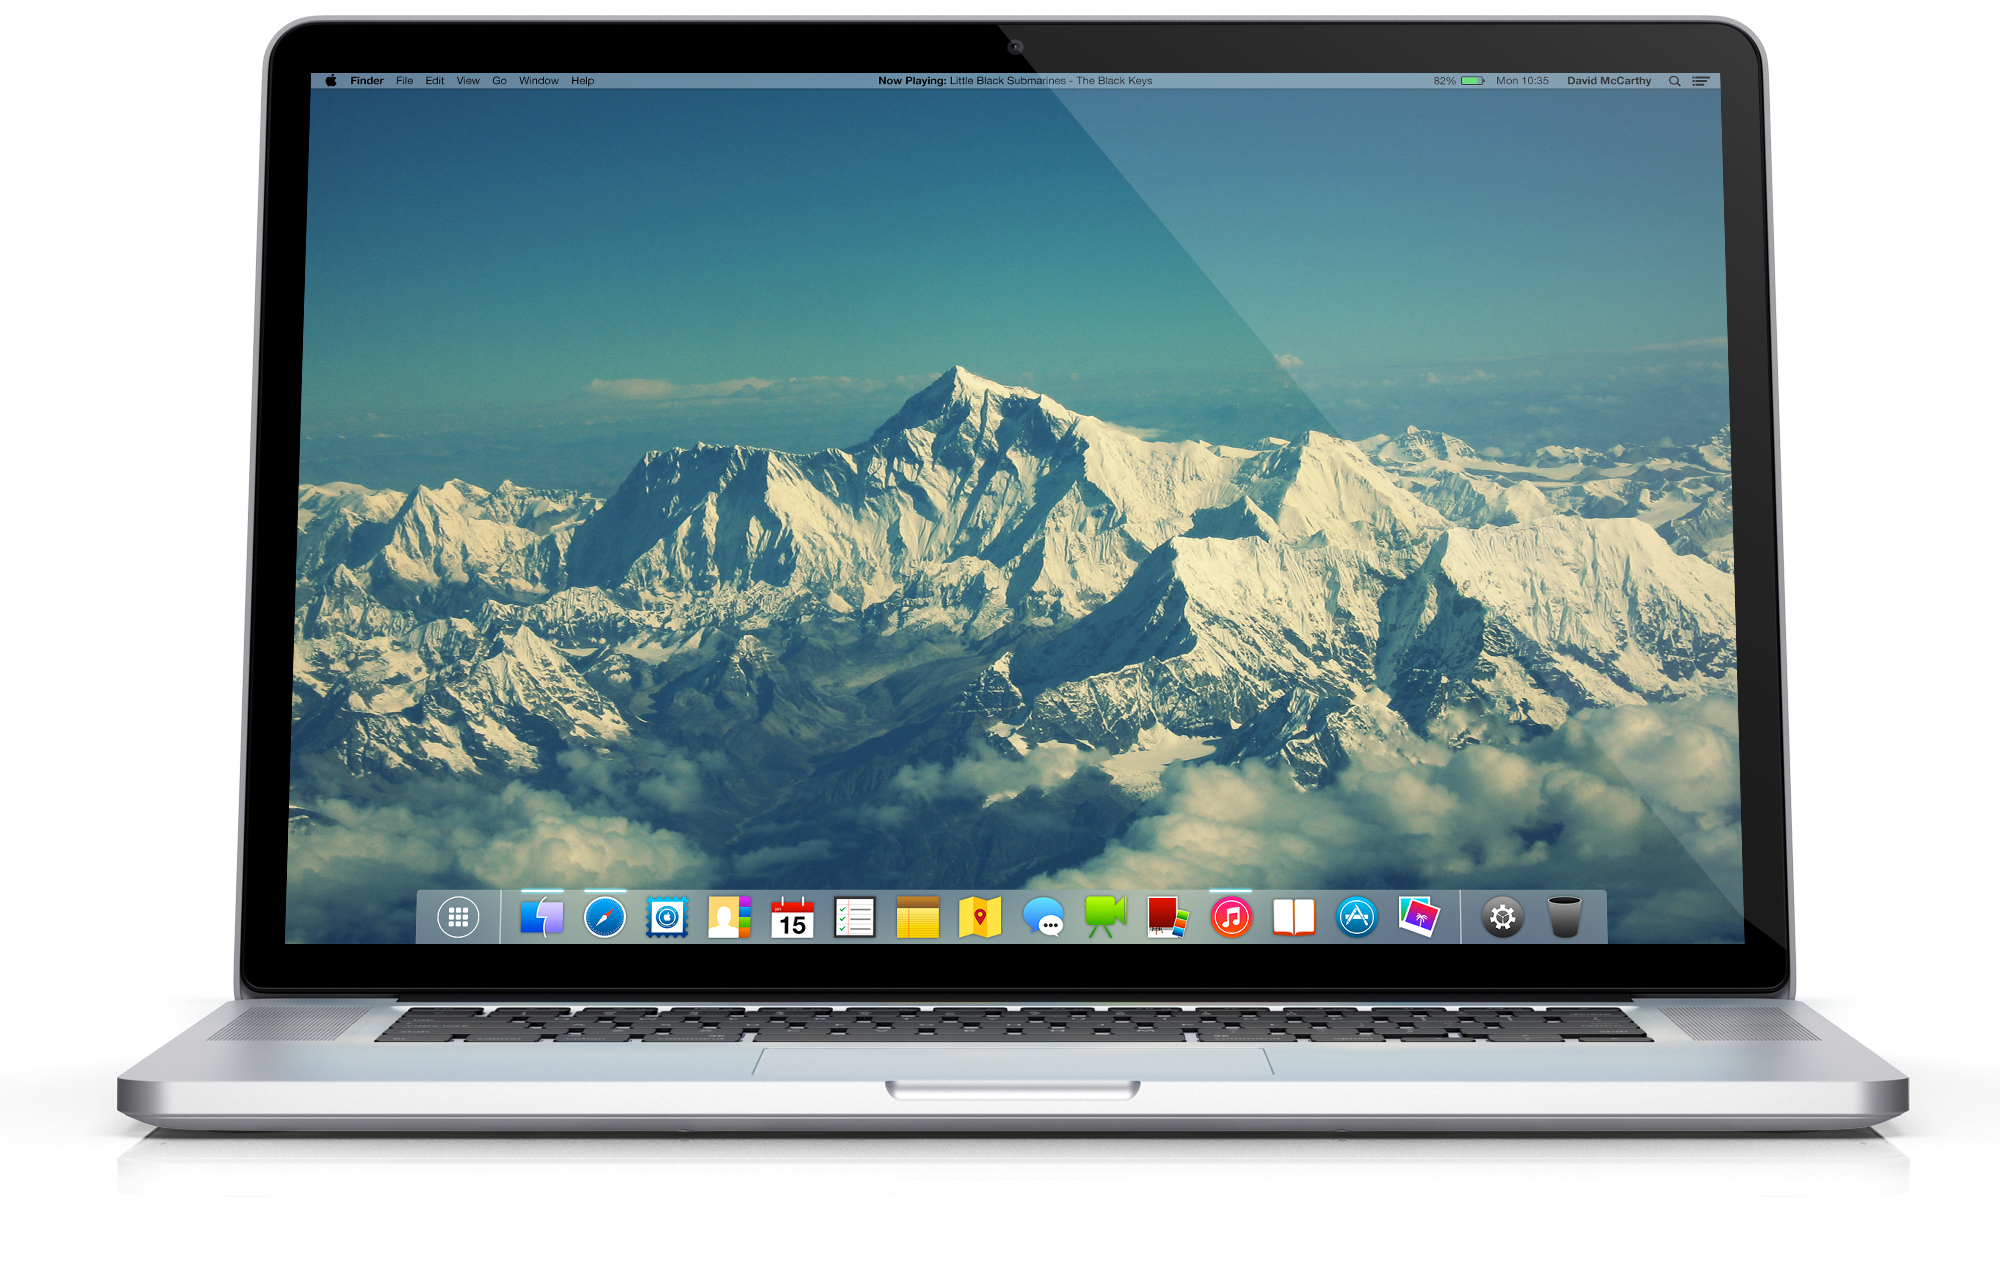
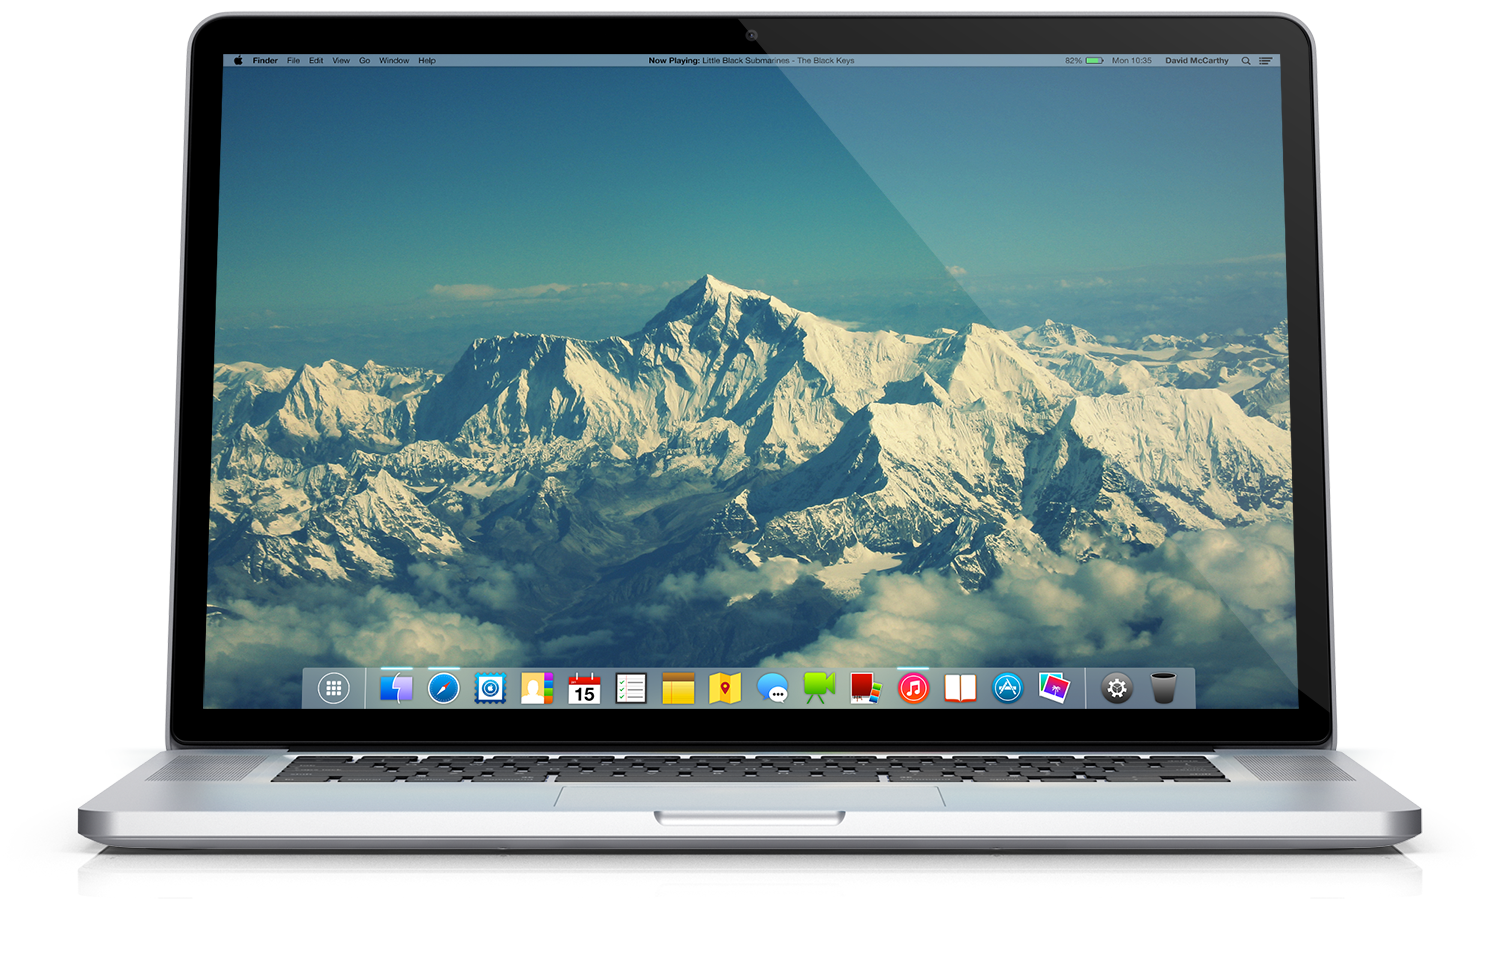
more content

diff --git a/style/main.css b/style/main.css
@@ -190,9 +190,14 @@ h1 {
     margin: 50px 0 10px;
 }
 
+.article img {
+    margin-bottom: 50px;
+}
+
 .mockup {
     width: 100%;
     height: auto;
+    margin: 20px 0;
 }
 
 .twitter-share-button {

diff --git a/osx.php b/osx.php
@@ -28,26 +28,45 @@
 	        	</div>
 			</div>
 		</section>
-		<a href="https://twitter.com/share" class="twitter-share-button" data-via="twitterapi" data-lang="en">Tweet</a>
+		<a href="https://twitter.com/share" class="twitter-share-button" data-lang="en">Tweet</a>
 		<script>!function(d,s,id){var js,fjs=d.getElementsByTagName(s)[0];if(!d.getElementById(id)){js=d.createElement(s);js.id=id;js.src="https://platform.twitter.com/widgets.js";fjs.parentNode.insertBefore(js,fjs);}}(document,"script","twitter-wjs");</script>
 		<div class="fb-share-button" data-href="http://davesmdesign.com/osx.php" data-width="100" data-type="button_count"></div>
 		<section class="article">
 			<div class="container">
 				<div class="col-md-8 col-md-offset-2">
 					<p><strong>WWDC</strong> is coming up on June 2nd, and one of the biggest expected unveilings is OS X 10.10, codenamed “Syrah”. It is expected to have an updated look, more closely in line with the aesthetic taken on by iOS 7 last fall. While I like to keep up with the computing industry as a whole, Apple’s unveilings tend to be especially intriguing. This time around, I decided to take a stab at a conceptual redesign of the current Mac operating system.</p>
-					<h1>To start...</h1>
+					<h1>To Start...</h1>
 					<p>I needed a set of objectives, something to guide the direction this design would go in, so I came up with these:</p>
 					<h3>Bring a flat, iOS 7 like look to OS X</h3>
 					<p>The primary objective here is not to copy iOS and blow it up to desktop proportions, but to take some iOS influences and keep it feeling like a desktop computer.</p>
 					<h3>Create a light and airy interface</h3>
 					<p>As Apple’s hardware gets lighter and thinner, the operating system should feel like it is too. Using translucent elements and a brighter, more vibrant interface will help accomplish this.</p>
 					<h3>Redesign realistically</h3>
-					<p>I didn’t want to go so over the top with the design that it wouldn’t conceivably be done. Keeping it realistic I felt was important for this design.</p>
+					<p>I didn’t want to go so over the top with the design that it wouldn’t conceivably be done. Keeping it realistic I felt was important.</p>
 					<h3>Simplify</h3>
 					<p>Over the years, more and more features and apps have been added without an overhaul of the operating system. More features are great, but it’s at the cost of adding more, and more buttons. I want to hide all but the essentials, making for a simpler, more efficient interface.</p>
 					<h1>The desktop…</h1>
 				</div>
-				<img class="mockup" src="img/osxmockup1.png" alt="">
+				<img class="mockup" src="img/osxmockup.png" alt="">
+				<div class="col-md-8 col-md-offset-2">
+					<h3>The dock</h3>
+					<p>I completely redesigned the entire dock from scratch. Dropping the skeuomorphic design of it’s predecessor, I created bright, new icons to complement the airy feel of the new dock.</p>
+				</div>
+				<img class="mockup" src="img/osxdock.png" alt="">
+				<div class="col-md-8 col-md-offset-2">
+					<h3>The status bar</h3>
+					<p>The status bar also got an upgrade. In addition to simplifying the right side, I added something that I'd like to call “Adaptive Status”. What Adaptive Status does is display information of interest to you. Whether it’s the song that you’re listening to, or your stock portfolio going up, It displays quick information that you can look at any time - which is the point of a status bar.</p>
+					<img class="mockup" src="img/osxadaptive.png" alt="">
+					<h1>Spotlight...</h1>
+				</div>
+				<img class="mockup" src="img/osxspotlight.png" alt="">
+				<div class="col-md-8 col-md-offset-2">
+					<p>A visual upgrade of spotlight isn’t a big deal, but the icon next to it is. Let’s take a closer look!</p>
+					<img src="img/osxspotlight+.png" alt="" class="mockup">
+					<p>You may recognize the icon as Siri, the iOS voice assistant. I truly believe Siri’s addition to OS X is long overdue. After long deliberation on how to add Siri to the operating system, I decided that there is no better way than integrating it with spotlight. Spotlight acts as a quick way to launch apps, and open files, and Siri is another great way to quickly and conveniently perform tasks without stopping what you’re doing.</p>
+					<p>The current keybinding for spotlight is command+[space], and with this change, holding down command+space for over 2 seconds will activate Siri.</p>
+					<h1>Control enter...</h1>
+				</div>
 			</div>
 		</section>
 		<?php
